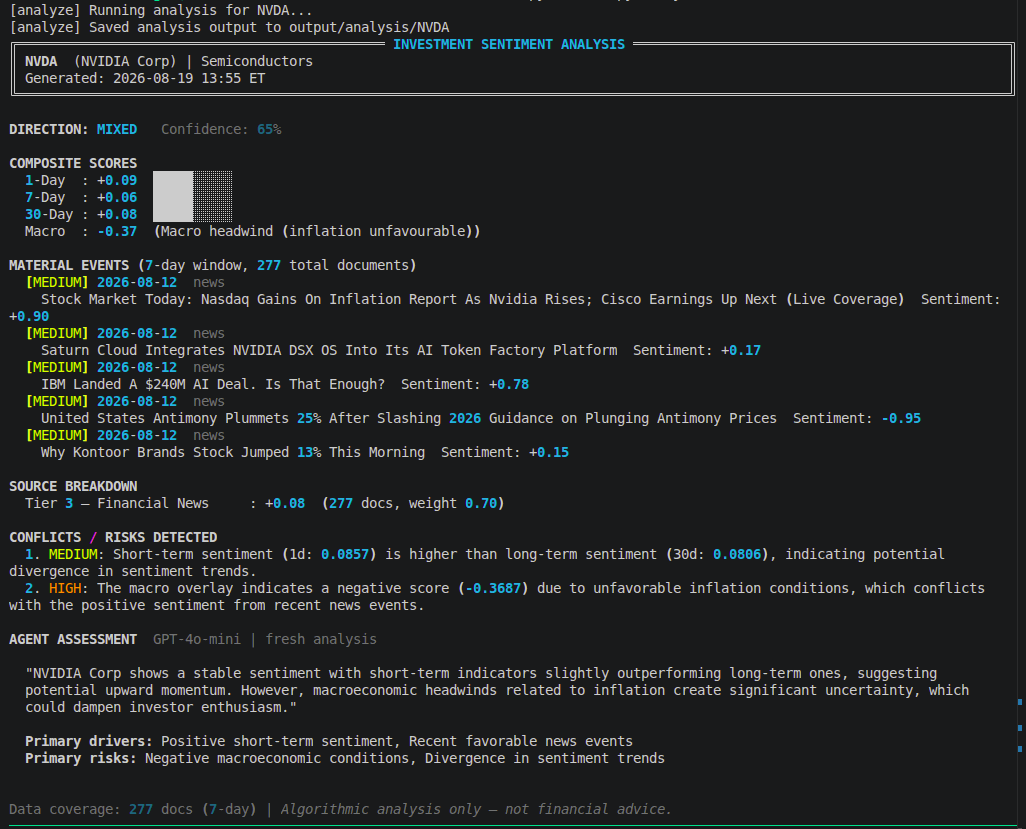
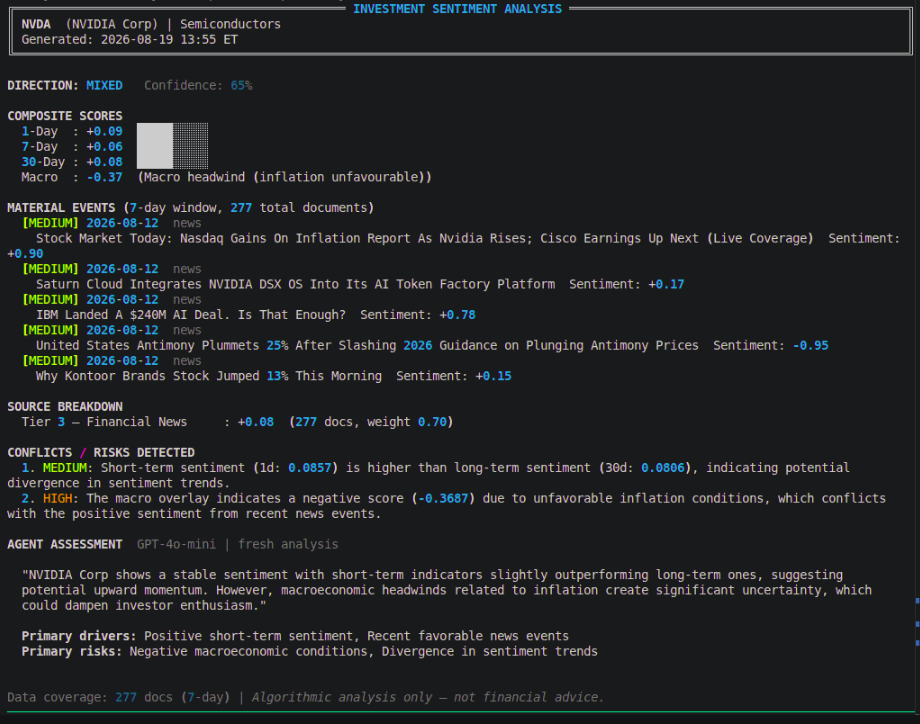
updating docs. Adding ui-view. Cleanup

Changed region(s): [[0.0, 0.0, 1.0, 1.0], [0.9739, 0.8204, 1.0, 0.9116]]

diff --git a/README.md b/README.md
@@ -1,5 +1,9 @@
 # Stock Sentiment
 
+A tool for managing investment portfolios directly from your CLI. Run it directly, add it as a plugin to your favourite harnes or run it as a daily service.
+
+![Analysis run](docs/analysis.png)
+
 Stock Sentiment turns a noisy stream of filings, transcripts, news, macro signals, and social chatter into a compact investment brief you can actually act on.
 
 It is built for the exact moment when you want to answer questions like:
@@ -20,6 +24,10 @@ Inspect mode shows the raw evidence that entered the pipeline:
 Analysis mode turns that evidence into a sentiment brief with drivers, risks, and conflict detection:
 
 ![Analysis run](docs/analysis.png)
+
+Feature rich UI view, allowing you to integrate that with your homelab for a daily visual rundown:  
+
+![UI-View](docs/ui-view.png)
 
 ## What this project includes
 
